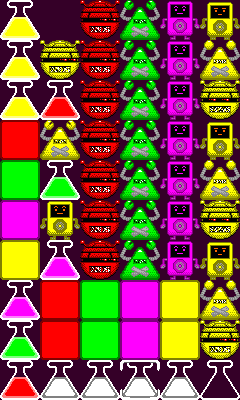
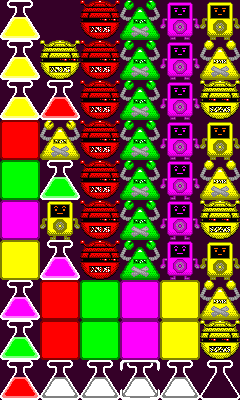
rearranged data boxes for level edit mode

Changed region(s): [[0.7, 0.0, 0.8167, 0.39], [0.875, 0.84, 0.9625, 0.9]]

diff --git a/engine.html b/engine.html
@@ -259,11 +259,12 @@ $def with (name)
         screen_data = new MenuBox(
           "Level",
           screen_data,
-          player.board.board.x + player.board.board.width + ITEM_WIDTH,
-          player_data.y + player_data.height + 1,
+          (level_edit) ? player_data.x + player_data.width + 1 : player.board.board.x + player.board.board.width + ITEM_WIDTH,
+          (level_edit) ? player_data.y : player_data.y + player_data.height + 1,
           125,
           screen_data_items
         )
+
         screen_data.index = -1
 
         console.log("creating box for screen data")
@@ -299,10 +300,15 @@ $def with (name)
               var puzzle_data_items = new Array()
               puzzle_data_items.push(new MenuItem(puzzle_data,"Star Time:  " + star_time,function(){return}))
               puzzle_data_items.push(new MenuItem(puzzle_data,"Star Score: \u03BB" + star_score,function(){return}))
-              puzzle_data = new MenuBox("",puzzle_data,screen_data.x,screen_data.y + screen_data.height + 1,150 + ITEM_WIDTH*2,puzzle_data_items)
+              puzzle_data = new MenuBox("",puzzle_data,(level_edit)?screen_data.x - 2*ITEM_WIDTH:screen_data.x,screen_data.y + screen_data.height + 1,150 + ITEM_WIDTH*2,puzzle_data_items)
               puzzle_data.index = -1
             }
-
+          } else if (level_edit) {
+              var puzzle_data_items = new Array()
+              puzzle_data_items.push(new MenuItem(puzzle_data,"Star Time:  " + star_time,function(){return}))
+              puzzle_data_items.push(new MenuItem(puzzle_data,"Star Score: \u03BB" + star_score,function(){return}))
+              puzzle_data = new MenuBox("",puzzle_data,screen_data.x - 2*ITEM_WIDTH,screen_data.y + screen_data.height + 1,150 + ITEM_WIDTH*2,puzzle_data_items)
+              puzzle_data.index = -1
           }
         }
 
@@ -444,6 +450,7 @@ $def with (name)
           var level_edit_menu_items = new Array()
           level_edit_menu_items.push(new MenuItem(level_edit_menu,"New",function() {
             console.log("New")
+            player_level = 0
             player_stage = latest_edit
             console.log("editing level 0-" + player_stage)
             jaws.start(Game)
@@ -495,7 +502,7 @@ $def with (name)
             jaws.start(MainMenu)
           }))
 
-          level_edit_menu = new MenuBox("",level_edit_menu,level_editor.board.x + level_editor.board.width + 10, level_editor.board.y,3*ITEM_WIDTH,level_edit_menu_items)
+          level_edit_menu = new MenuBox("",level_edit_menu,level_editor.board.x + level_editor.board.width + 10, puzzle_data.y + puzzle_data.height + 1,3*ITEM_WIDTH,level_edit_menu_items)
 
           level_edit_menu.active = true
 
@@ -784,13 +791,6 @@ $def with (name)
           player.draw()
           player_data.draw()
           screen_data.draw()
-          if (marathon)
-            marathon_data.draw()
-          else (!level_edit)
-            if (puzzle_data != undefined) puzzle_data.draw()
-          for (var s=0; s < star_sprites.length; s++) {
-            star_sprites[s].draw()
-          }
           if(level_edit) {
             level_editor.draw()
             level_edit_menu.draw()
@@ -798,6 +798,13 @@ $def with (name)
               level_select_menu.draw()
             if (level_select_ok.menu_box.active)
               level_select_ok.draw()
+          }
+          if (marathon)
+            marathon_data.draw()
+          else (!level_edit)
+            if (puzzle_data != undefined) puzzle_data.draw()
+          for (var s=0; s < star_sprites.length; s++) {
+            star_sprites[s].draw()
           }
         });
 
